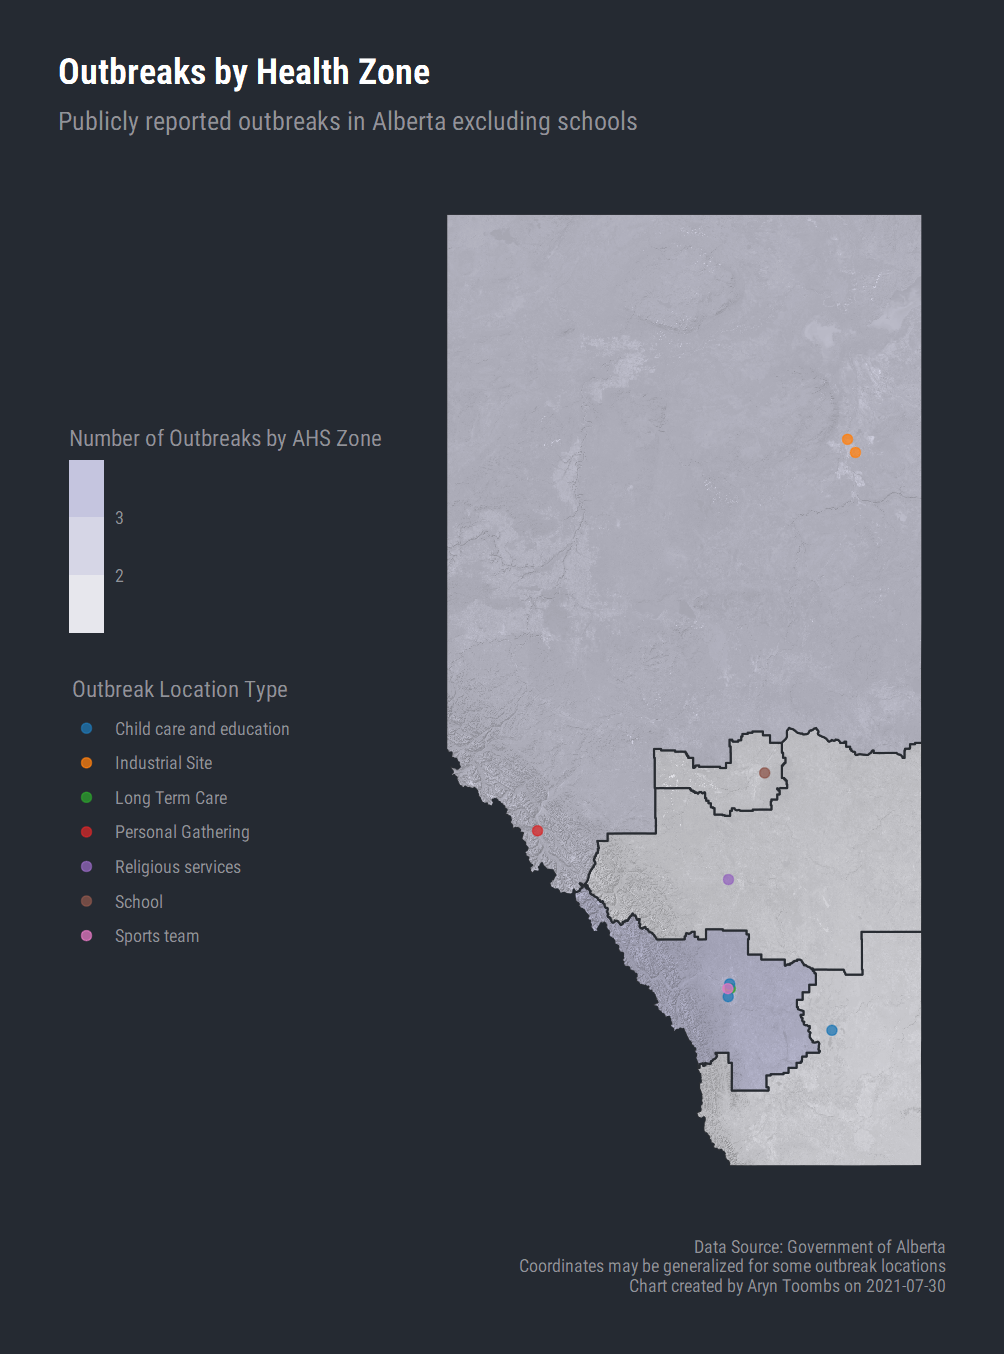
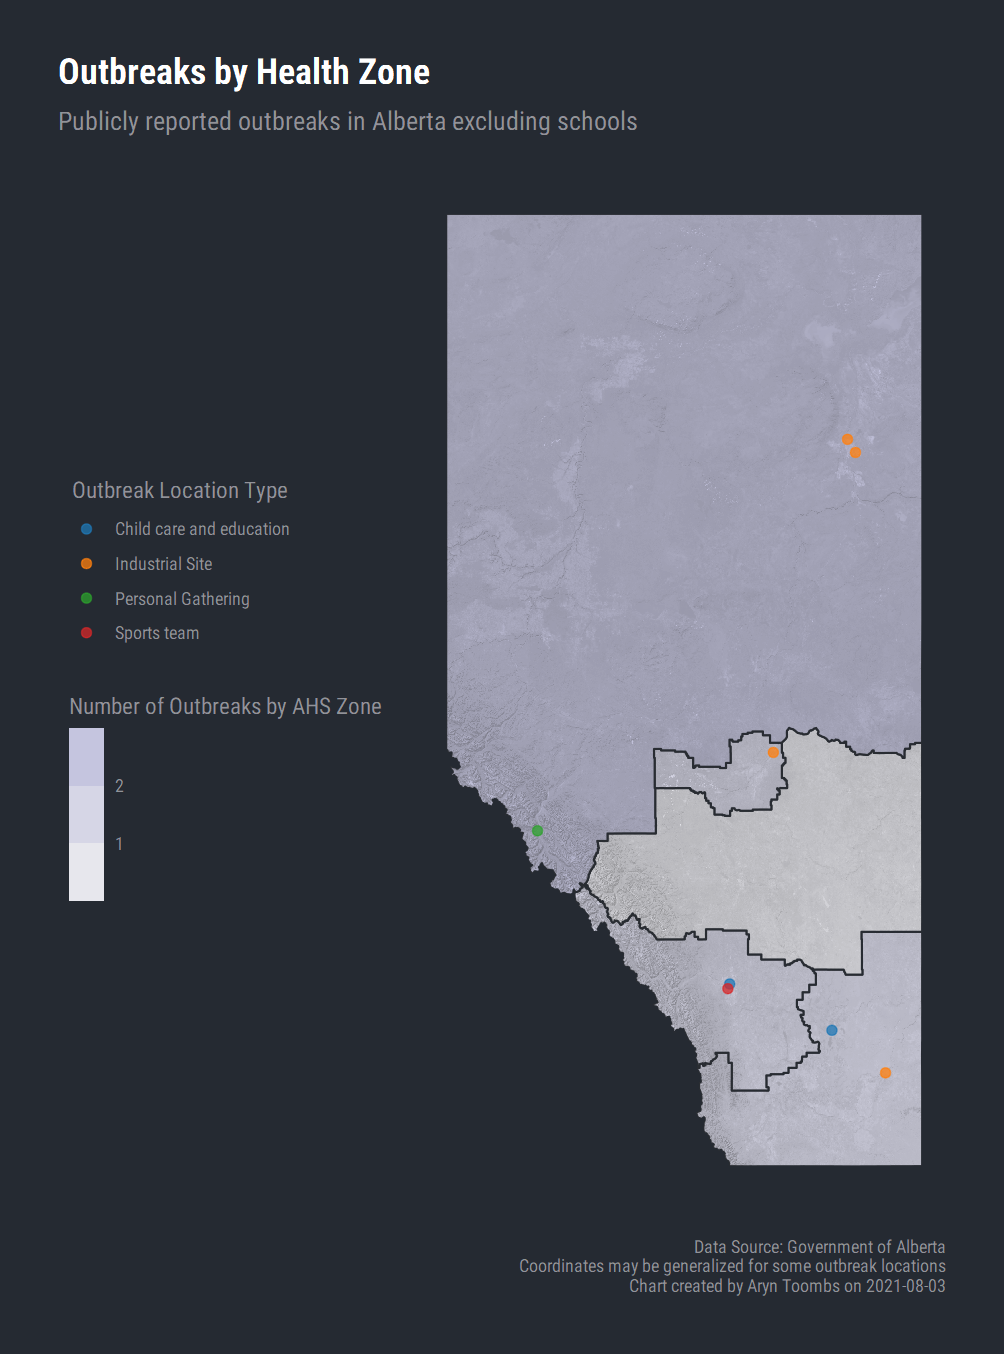
web

Changed region(s): [[0.0618, 0.3102, 0.3705, 0.7134], [0.7102, 0.7134, 0.741, 0.7445]]

diff --git a/outbreaks/index.html b/outbreaks/index.html
@@ -162,7 +162,7 @@
       Calgary Zone
     </div>
     <div class="row box-bottom justify-content-center">
-      <h4>4</h4>
+      <h4>2</h4>
     </div>
   </div>
   <div class="col-sm ml-1 mr-1">
@@ -178,7 +178,7 @@
       South Zone
     </div>
     <div class="row box-bottom justify-content-center">
-      <h4>1</h4>
+      <h4>2</h4>
     </div>
   </div>
   <div class="col-sm ml-1 mr-1">
@@ -186,7 +186,7 @@
       Central Zone
     </div>
     <div class="row box-bottom justify-content-center">
-      <h4>1</h4>
+      <h4>0</h4>
     </div>
   </div>
   <div class="col-sm ml-1 mr-1">
@@ -199,7 +199,7 @@
   </div>
 </div>
 <div class="row mb-3 pr-1 pt-1 justify-content-end">
-  <p class="m-1"><i class="bi bi-info-circle-fill"></i> Covid-19 outbreaks (not including schools, see below) current as of Fri, Jul 30, 2021. AHS non-school outbreak data updated on Tuesdays and Fridays.</p>
+  <p class="m-1"><i class="bi bi-info-circle-fill"></i> Covid-19 outbreaks (not including schools, see below) current as of Tue, Aug 03, 2021. AHS non-school outbreak data updated on Tuesdays and Fridays.</p>
 </div>
   <div class="row pl-3">
     <h4 class="body-display">Outbreak Charts</h4>
